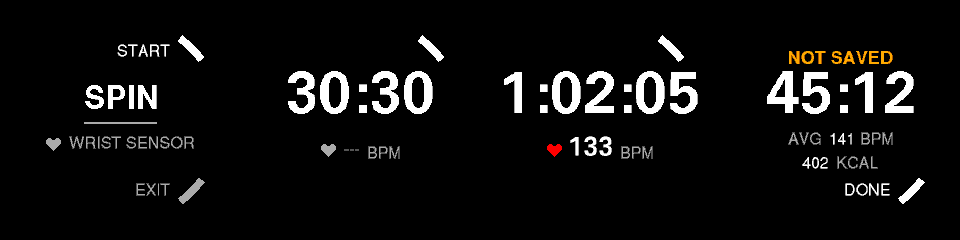
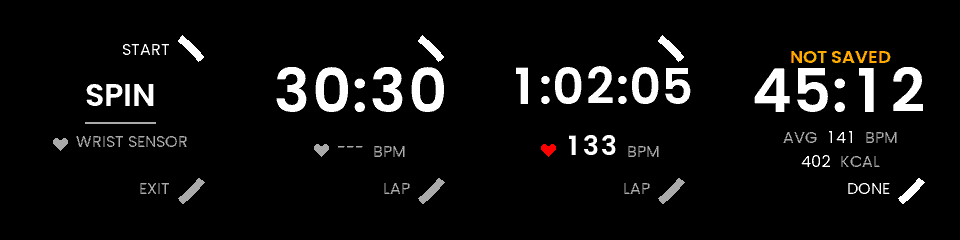
feat(spin): mark a lap with R2 while riding
Structured intervals are the thing this app most obviously lacks, and the hard
part is not the FIT side -- the SDK's profile carries Workout and WorkoutStep --
but where a workout would come from. configFields caps at 32 flat scalar fields
rendered as one form, with no arrays and no repeats, so an arbitrary session
would have to be encoded as a numbered list nobody wants to fill in.

A lap button sidesteps the configuration entirely: the rider marks the
structure as it happens rather than declaring it in advance. Nothing new has to
be recorded for it, because a lap already carries its own average and maximum
heart rate, calories and time in each zone -- which is exactly an interval,
read afterwards.

R2, because that is the lap button on the SDK's own activity apps
(TrackView::handleKeyEvent in the Cycling example) and a wearer arriving from
those has it in their fingers. This is the one screen where the app's "R2
leaves" rule does not hold, and the slot was free precisely because leaving
mid-ride is what that rule forbids -- an accidental exit there costs the whole
ride, but an accidental lap costs a lap.

Two live buttons now, and only the newer is named: R1 keeps the mark alone
because pausing is unchanged and already learned, and a word there costs the
clock its space. The buzz that acknowledges it is the auto-lap's two short
beeps, already distinct from the target's three, so no screen has to cover the
clock to say it landed.
[…]

diff --git a/Spin/Software/Libs/Header/Commands.hpp b/Spin/Software/Libs/Header/Commands.hpp
@@ -37,6 +37,7 @@ namespace CustomMessage {
     constexpr SDK::MessageType::Type TRACK_STOP         = 0x00000011;
     constexpr SDK::MessageType::Type TRACK_PAUSE        = 0x00000012;
     constexpr SDK::MessageType::Type TRACK_RESUME       = 0x00000013;
+    constexpr SDK::MessageType::Type TRACK_LAP          = 0x00000014;
 
     // -- Service --> GUI ------------------------------------------------------
 
@@ -134,6 +135,13 @@ namespace CustomMessage {
         TrackPause() : SDK::MessageBase(TRACK_PAUSE) {}
     };
 
+    /// Close the current lap here. Carries nothing: the Service owns the clock
+    /// and every per-lap total, so the only thing the GUI can contribute is
+    /// the instant, which is the moment this arrives.
+    struct TrackLap : public SDK::MessageBase {
+        TrackLap() : SDK::MessageBase(TRACK_LAP) {}
+    };
+
     struct TrackResume : public SDK::MessageBase {
         TrackResume() : SDK::MessageBase(TRACK_RESUME) {}
     };
@@ -191,6 +199,7 @@ public:
     bool trackStart()  { return send<TrackStart>([](TrackStart *) {}); }
     bool trackPause()  { return send<TrackPause>([](TrackPause *) {}); }
     bool trackResume() { return send<TrackResume>([](TrackResume *) {}); }
+    bool trackLap()    { return send<TrackLap>([](TrackLap *) {}); }
 
     /// @param workKilojoules  kJ, or 0 for "nobody said". Not defaulted: a
     ///        caller with no number should have to write the 0 that says so.

diff --git a/Spin/Software/Libs/Sources/Service.cpp b/Spin/Software/Libs/Sources/Service.cpp
@@ -116,6 +116,11 @@ void Service::run()
                     pauseTrack(false);
                     break;
 
+                case CustomMessage::TRACK_LAP:
+                    LOG_DEBUG("TRACK_LAP\n");
+                    lapTrack();
+                    break;
+
                 case SDK::MessageType::EVENT_SENSOR_LAYER_DATA: {
                     auto *event = static_cast<SDK::Message::Sensor::EventData*>(msg);
                     SDK::Sensor::DataBatch batch(event->data, event->count, event->stride);
@@ -523,6 +528,18 @@ void Service::processTrack()
     }
 
     mGuiSender.trackData(mTrackData);
+}
+
+void Service::lapTrack()
+{
+    // Only while the clock is running, and only once there is something to
+    // close: a lap of no seconds is a message in the file that describes
+    // nothing, and pressing the button twice is easier than pressing it once.
+    if (mTrackState != Track::State::ACTIVE || mTimeCounter.getLapValueActive() <= 0) {
+        return;
+    }
+    saveLap();
+    notifyLapEnd();
 }
 
 void Service::saveLap()

diff --git a/Spin/Software/Apps/CustomGUI/Gui.cpp b/Spin/Software/Apps/CustomGUI/Gui.cpp
@@ -256,6 +256,14 @@ void Gui::handleButton(SDK::Message::EventButton::Id id,
         case Track::State::ACTIVE:
             if (id == Id::SW2) {            // R1: pause
                 sender.trackPause();
+            } else if (id == Id::SW4) {     // R2: lap
+                // The one screen where R2 does not leave. It is the lap button
+                // on the SDK's own activity apps -- TrackView::handleKeyEvent
+                // in the Cycling example -- and a wearer arriving from those
+                // has that in their fingers. Matching the platform beats
+                // matching this app's own rule, and R2 was free here precisely
+                // because leaving mid-ride is what the rule forbids.
+                sender.trackLap();
             }
             break;
 

diff --git a/Spin/Software/Apps/CustomGUI/rust/src/lib.rs b/Spin/Software/Apps/CustomGUI/rust/src/lib.rs
@@ -653,7 +653,12 @@ fn draw_riding(fb: &mut FrameBuf, frame: &Frame) {
         draw_button_tick(fb, BUTTON_R1_DEG, WHITE);
         draw_button_hint(fb, BUTTON_L2_DEG, "DISCARD", RED);
     } else {
+        // Two live buttons now, doing different things. R1 keeps the mark
+        // alone: pausing is unchanged and already learned, and a word there
+        // costs the clock its space. R2 is the new one, so it is the one that
+        // needs naming -- the labelled button is the unfamiliar button.
         draw_button_tick(fb, BUTTON_R1_DEG, WHITE);
+        draw_button_hint(fb, BUTTON_R2_DEG, "LAP", DIM);
     }
 }
 

diff --git a/Spin/Software/Apps/CustomGUI/rust/src/scenes.rs b/Spin/Software/Apps/CustomGUI/rust/src/scenes.rs
@@ -91,6 +91,9 @@ pub fn scenes() -> Vec<(&'static str, Frame)> {
         // A strap that dropped out mid-ride.
         ("riding_dropout", riding(SCREEN_RIDING, 1830, 0, HR_NONE)),
         ("riding_three_digit_hr", riding(SCREEN_RIDING, 2400, 187, HR_EXTERNAL)),
+        // Mid-ride with zones, where both live buttons show at once: the mark
+        // alone for pause, and the named one for lap.
+        ("riding_lap_hint", in_zone(riding(SCREEN_RIDING, 640, 151, HR_EXTERNAL), 4)),
         // The arc in the bottom gap, partly filled.
         (
             "riding_target_half",

diff --git a/Spin/Software/Libs/Header/Service.hpp b/Spin/Software/Libs/Header/Service.hpp
@@ -182,6 +182,8 @@ private:
     void applyZoneConfig();
     void startTrack(std::time_t utc);
     void processTrack();
+    /// A lap the wearer asked for, as opposed to one auto-lap produced.
+    void lapTrack();
     void saveLap();
     void updateHrDerivedMetrics();
     uint8_t hrZoneFor(float hr) const;

diff --git a/Spin/README.md b/Spin/README.md
@@ -30,10 +30,12 @@ pair (`SDK::Fit::Sport::Cycling`, `SDK::Fit::SubSport::IndoorCycling`).
 Everything else in the file, all asserted in
 [`Tests/ActivityWriter_test.cpp`](Tests/ActivityWriter_test.cpp):
 
-- **At least one lap, and they add up.** Spin has no lap button, so with
-  auto-lap off the single lap is the whole ride — a session with no lap at all
-  is one many FIT consumers quietly drop. With auto-lap on, the laps sum to the
-  session.
+- **At least one lap, and they add up.** With nothing pressed and auto-lap off,
+  the single lap is the whole ride — a session with no lap at all is one many
+  FIT consumers quietly drop. Press R2 mid-ride, or set auto-lap, and the laps
+  still sum to the session. Each one carries its own average and maximum heart
+  rate, calories and time in zone, which is what makes a lap an interval
+  worth reading afterwards.
 - **Where each beat came from.** Every `record` carries the arbitrated
   `heart_rate` plus developer fields `hr_source`, `hr_optical` and
   `hr_external`. Which sensor the kernel believed is not recoverable from the
@@ -452,7 +454,7 @@ an accidental exit would cost the ride.
 | Screen | Shows | L1 | L2 | R1 | R2 |
 |---|---|---|---|---|---|
 | Ready | strap status, target if set | | | **START** | **EXIT** |
-| Riding | clock, heart rate, zone | | | pause | |
+| Riding | clock, heart rate, zone | | | pause | **LAP** |
 | Paused | dimmed clock, `PAUSED` | **SAVE** | **DISCARD** | resume | |
 | Bike kJ | the number being built | **+100** | **+10** | **SAVE** | **SKIP** |
 | Saved / discarded | what happened | | | done | **DONE** |
@@ -466,10 +468,19 @@ perfectly normal ride.
 Each live button is marked by a short arc at its own corner of the bezel — the
 same mark the SDK's TouchGFX apps use, and it belongs to the zone ring's family
 rather than floating free. **Words appear only where there is a decision.**
-While riding there is one live button and one obvious thing for it to do, so it
-gets the mark alone; the same goes for resume when paused, which was PAUSE a
-second earlier. The two endings of a ride get words, because choosing between
-them is the whole reason that screen exists.
+Riding has two live buttons, and only the newer one is named: R1 keeps the mark
+alone because pausing is unchanged and already learned, while R2 gets `LAP`,
+since the labelled button should be the unfamiliar one. Resume when paused gets
+the mark alone for the same reason — it was PAUSE a second earlier. The two
+endings of a ride get words, because choosing between them is the whole reason
+that screen exists.
+
+**R2 mid-ride is the one place the "R2 leaves" rule does not hold**, and it is a
+deliberate trade: R2 is the lap button on the SDK's own activity apps
+(`TrackView::handleKeyEvent` in the Cycling example), so a wearer arriving from
+those already has it in their fingers. Matching the platform beats matching this
+app's own rule — and the slot was free precisely because leaving mid-ride is
+what the rule forbids.
 
 The first version put the labels on horizontal rows above and below the clock,
 where `PAUSE` landed directly over it and read as its caption, and `FINISH` and
@@ -634,9 +645,17 @@ Deliberately, and the first two are firmware limits rather than choices:
 - **No distance or speed.** There is no honest way to produce either without a
   trainer, and a fabricated distance is worse than an absent one. The FIT file
   omits both rather than writing zeros.
-- **No structured intervals.** Reachable with what is already here — the SDK's
-  profile even carries `Workout` and `WorkoutStep` — and the obvious next thing
-  to build.
+- **No structured intervals — no workout to follow.** The SDK's profile carries
+  `Workout` and `WorkoutStep`, so the file side is reachable; the hard part is
+  where a workout would come from. `configFields` caps at 32 flat scalar fields
+  rendered as one form, with no arrays and no repeats, so an arbitrary session
+  would have to be encoded as a numbered list nobody wants to fill in.
+
+  The lap button is the answer to most of it: the rider marks the structure as
+  it happens rather than declaring it in advance, and each lap already records
+  its own heart rate, calories and time in zone. A guided workout — the watch
+  telling you what to do next — is the part still missing, and the tractable
+  version is three fields (work, rest, repeats) rather than an arbitrary one.
 
 ## Versions
 
